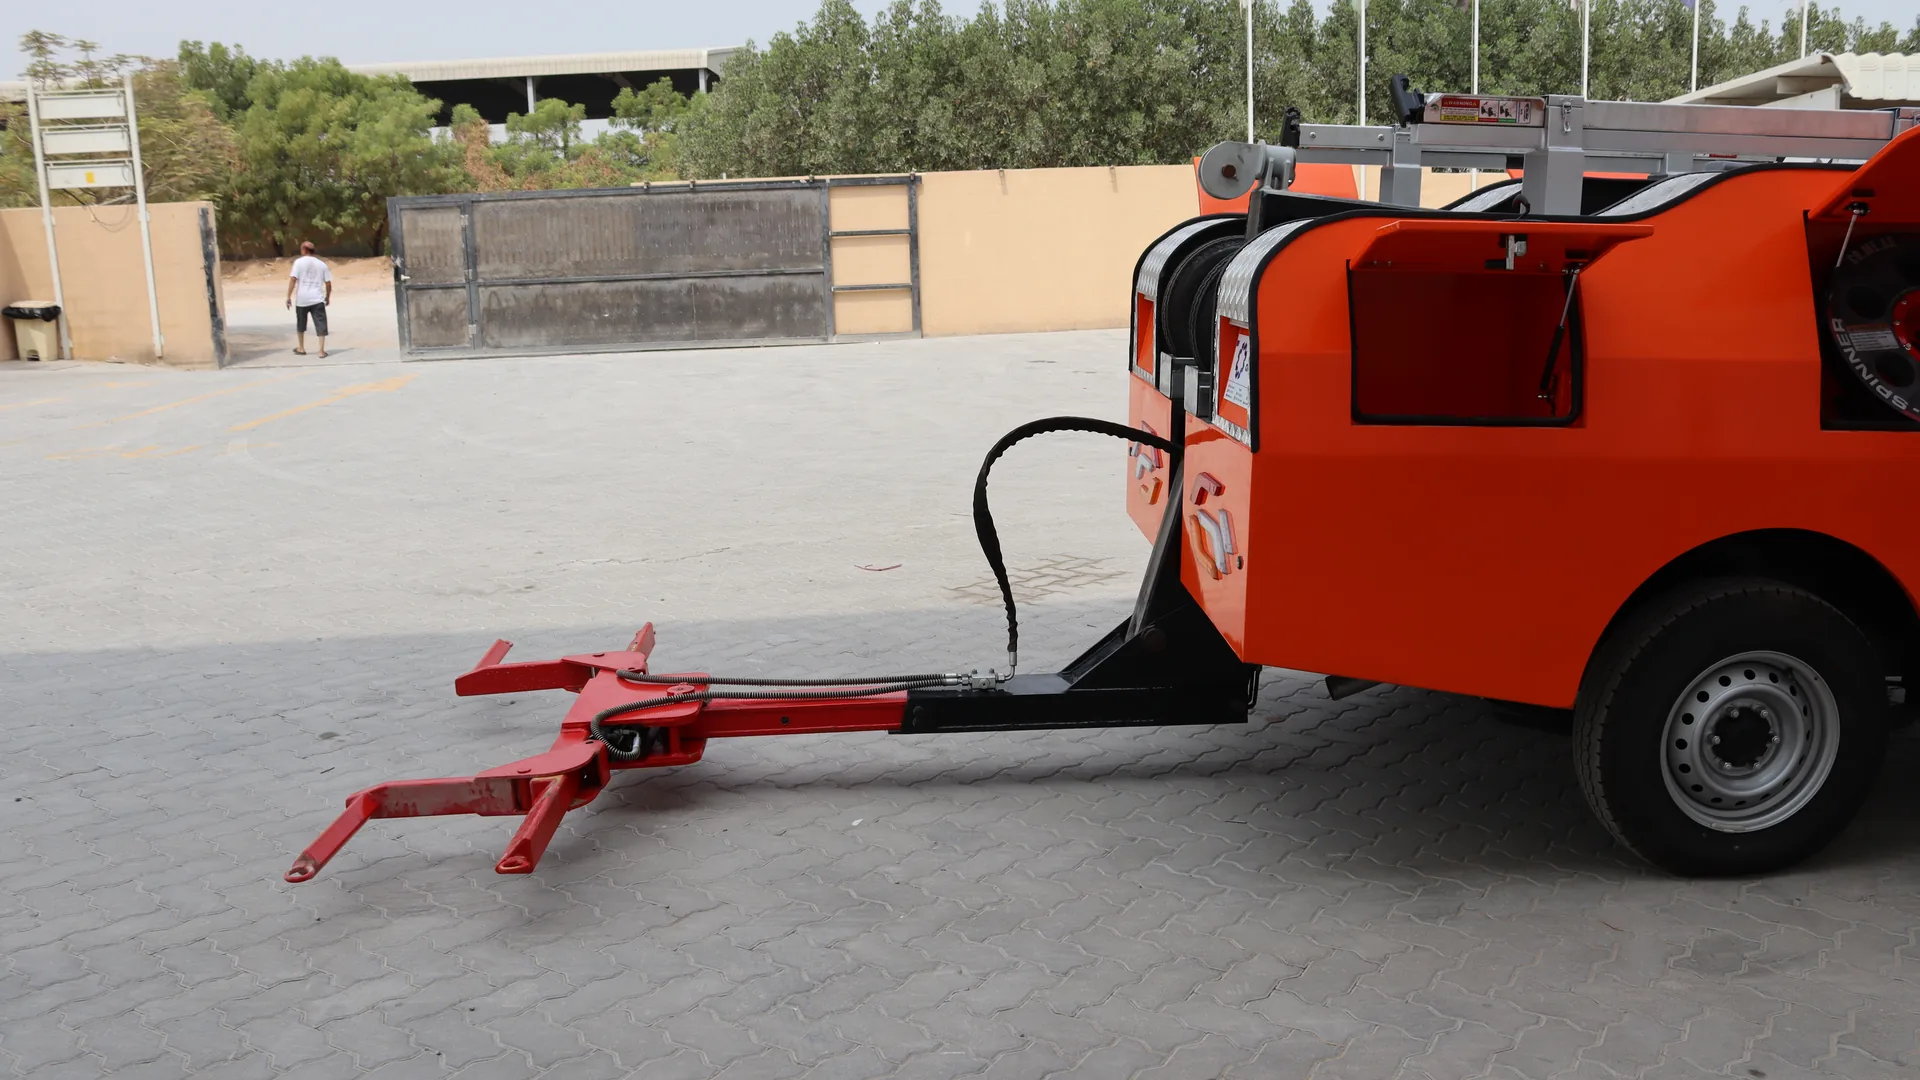
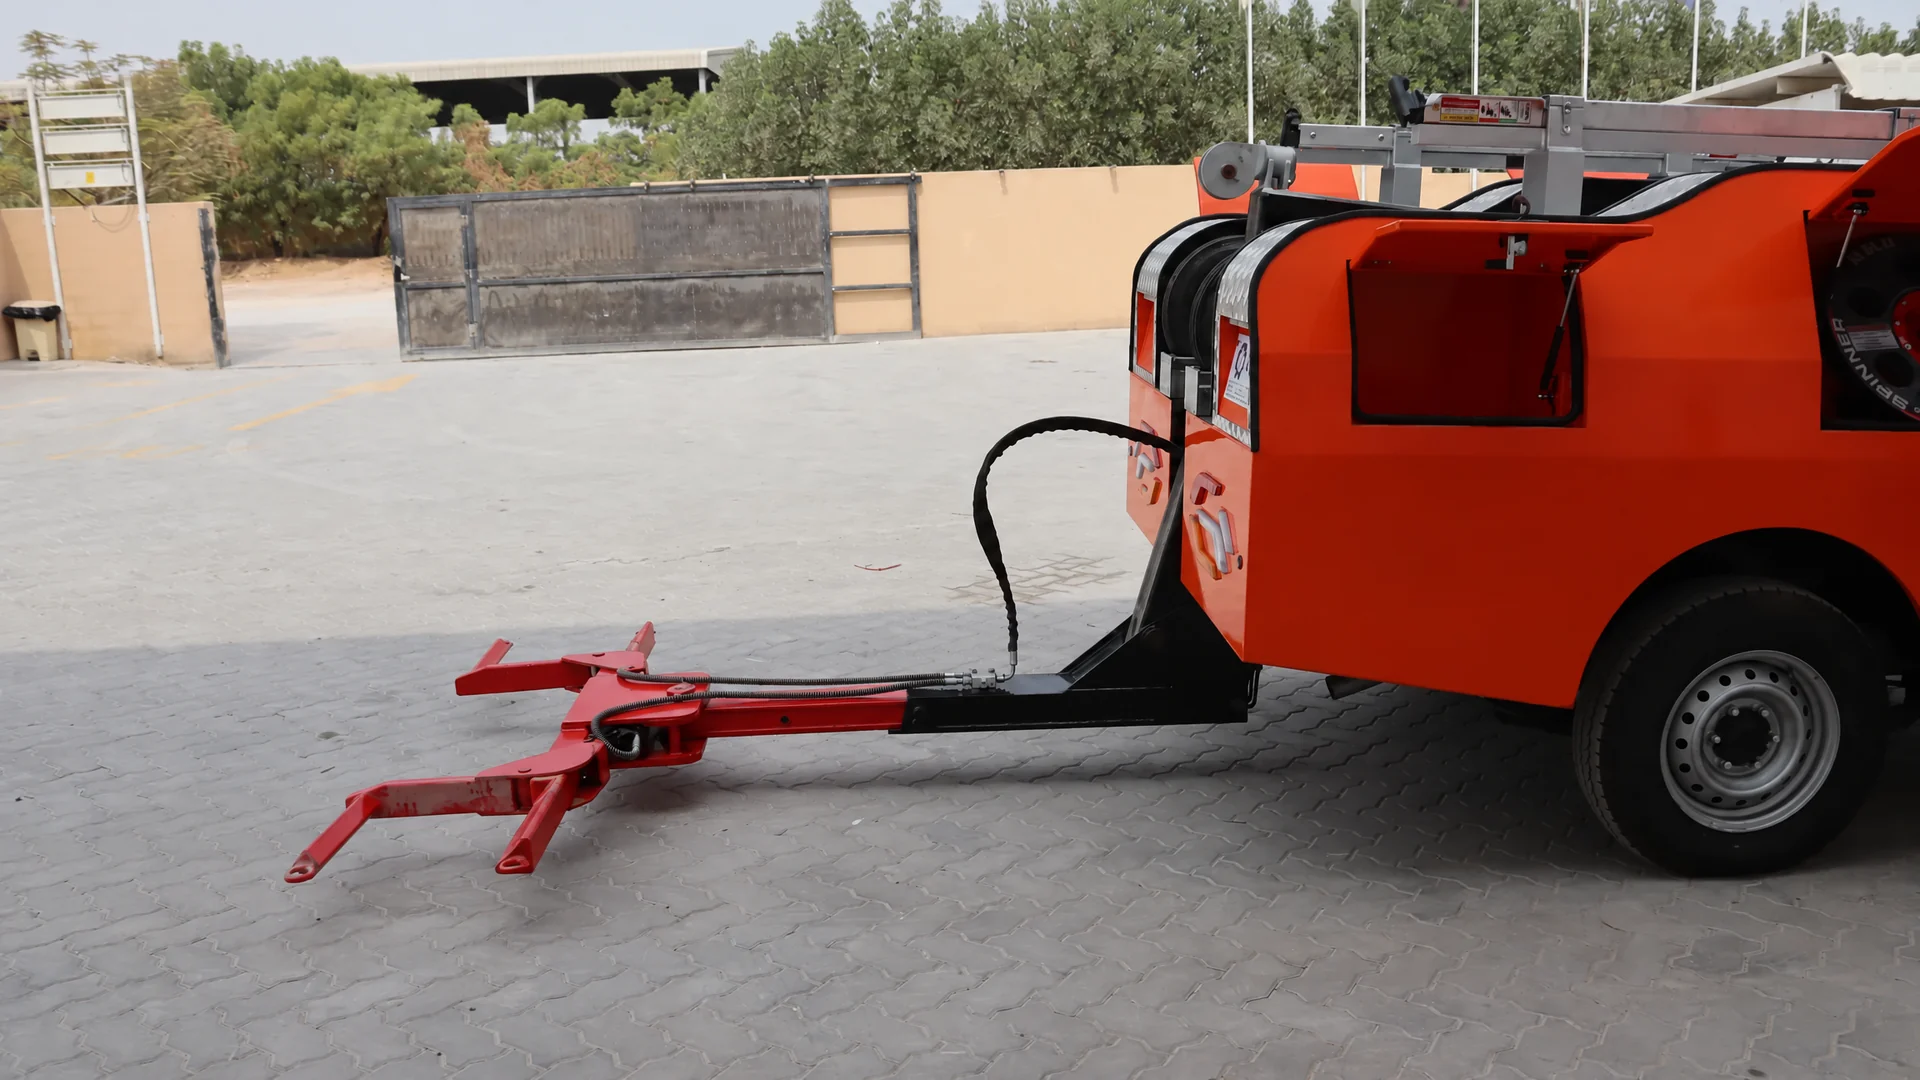
Content updates: bilingual tagline, photo edits, 'Metals Engineering' branding
- Home hero intro: the language word now alternates Latin <-> Arabic with a 3D
  flip (MutationObserver-protected against the template runtime resetting it).
- AQUILA image: removed the person standing by the gate (OpenArt edit).
- Mobile Workshops 'van at facility' image: removed the white truck behind the
  yellow van (OpenArt edit).
- Header brand tag changed from 'Mechanical' to 'Metals Engineering' on every
  page (home, AQUILA, Mobile Workshops, Hydrolift), desktop + mobile menus;
  tightened tag letter-spacing and made the mobile header consistent (logo +
  tag + hamburger) so the longer text fits without colliding with the CTA.

diff --git a/index.html b/index.html
@@ -61,7 +61,7 @@
 <a href="#top" style="display:flex;align-items:center;gap:16px">
 <img src="assets/al-furat-logo.png" alt="al furat" style="height:34px;width:auto;display:block;filter:brightness(0) invert(1)">
 <span style="width:1px;height:26px;background:rgba(242,241,238,.22)"></span>
-<span style="font:600 11px/1 'JetBrains Mono',ui-monospace,monospace;letter-spacing:.26em;color:rgba(242,241,238,.62)">MECHANICAL</span>
+<span style="font:600 11px/1 'JetBrains Mono',ui-monospace,monospace;letter-spacing:.13em;color:rgba(242,241,238,.62)">METALS ENGINEERING</span>
 </a>
 <div data-navlinks role="navigation" aria-label="Primary" style="display:flex;align-items:center;gap:38px">
 <a href="/vehicle-recovery/aquila-100-rear-fork-wrecker/" style="font:500 11px/1 'JetBrains Mono',ui-monospace,monospace;letter-spacing:.18em;color:rgba(242,241,238,.72)">AQUILA</a>
@@ -112,7 +112,7 @@
 </div>
 <div data-introgrid style="display:grid;grid-template-columns:1.15fr .85fr;gap:96px;align-items:start">
 <div>
-<h2 style="margin:0;font:800 58px/1.06 Archivo,sans-serif;letter-spacing:-.028em;text-wrap:pretty;color:#0a0b0d;perspective:900px"><span data-spinword style="display:inline-block;animation:aqspinword 7s cubic-bezier(.62,.03,.32,1) 0.00s infinite">Aquila</span> <span data-spinword style="display:inline-block;animation:aqspinword 7s cubic-bezier(.62,.03,.32,1) 0.12s infinite">means</span> <span data-spinword style="display:inline-block;font-style:italic;font-weight:700;animation:aqspinword 7s cubic-bezier(.62,.03,.32,1) 0.24s infinite">eagle</span> <span data-spinword style="display:inline-block;animation:aqspinword 7s cubic-bezier(.62,.03,.32,1) 0.36s infinite">in</span> <span data-spinword style="display:inline-block;animation:aqspinword 7s cubic-bezier(.62,.03,.32,1) 0.48s infinite">Latin</span> <span data-spinword style="display:inline-block;animation:aqspinword 7s cubic-bezier(.62,.03,.32,1) 0.60s infinite">—</span> <span data-spinword style="display:inline-block;animation:aqspinword 7s cubic-bezier(.62,.03,.32,1) 0.72s infinite">strength,</span> <span data-spinword style="display:inline-block;animation:aqspinword 7s cubic-bezier(.62,.03,.32,1) 0.84s infinite">precision</span> <span data-spinword style="display:inline-block;animation:aqspinword 7s cubic-bezier(.62,.03,.32,1) 0.96s infinite">and</span> <span data-spinword style="display:inline-block;animation:aqspinword 7s cubic-bezier(.62,.03,.32,1) 1.08s infinite">reliability.</span></h2>
+<h2 style="margin:0;font:800 58px/1.06 Archivo,sans-serif;letter-spacing:-.028em;text-wrap:pretty;color:#0a0b0d;perspective:900px"><span data-spinword style="display:inline-block;animation:aqspinword 7s cubic-bezier(.62,.03,.32,1) 0.00s infinite">Aquila</span> <span data-spinword style="display:inline-block;animation:aqspinword 7s cubic-bezier(.62,.03,.32,1) 0.12s infinite">means</span> <span data-spinword style="display:inline-block;font-style:italic;font-weight:700;animation:aqspinword 7s cubic-bezier(.62,.03,.32,1) 0.24s infinite">eagle</span> <span data-spinword style="display:inline-block;animation:aqspinword 7s cubic-bezier(.62,.03,.32,1) 0.36s infinite">in</span> <span id="aqLangWord" data-spinword style="display:inline-block;will-change:transform">Latin</span> <span data-spinword style="display:inline-block;animation:aqspinword 7s cubic-bezier(.62,.03,.32,1) 0.60s infinite">—</span> <span data-spinword style="display:inline-block;animation:aqspinword 7s cubic-bezier(.62,.03,.32,1) 0.72s infinite">strength,</span> <span data-spinword style="display:inline-block;animation:aqspinword 7s cubic-bezier(.62,.03,.32,1) 0.84s infinite">precision</span> <span data-spinword style="display:inline-block;animation:aqspinword 7s cubic-bezier(.62,.03,.32,1) 0.96s infinite">and</span> <span data-spinword style="display:inline-block;animation:aqspinword 7s cubic-bezier(.62,.03,.32,1) 1.08s infinite">reliability.</span></h2>
 <p style="margin:34px 0 0;max-width:600px;font:400 16.5px/1.72 Archivo,sans-serif;color:rgba(10,11,13,.78)">Al Furat Group has manufactured vehicle bodies in the UAE since 1999. Aquila is its recovery vehicle line: light, medium and heavy duty car carriers engineered to the same standard the eagle is named for — sharp vision, exact execution, no compromise on the day the work is hardest.</p>
 <div style="margin-top:44px;display:flex;align-items:center;gap:16px">
 <img src="assets/al-furat-logo.png" alt="al furat since 1999" style="height:40px;width:auto;display:block">
@@ -1081,7 +1081,7 @@ class Component extends DCLogic {
 <button class="afm-btn-fx" type="button" id="afmBtn" aria-label="Open menu" aria-expanded="false" aria-controls="afmSheet">
 <svg width="26" height="26" viewBox="0 0 24 24" fill="none" stroke="currentColor" stroke-width="1.8"><line x1="3" y1="7" x2="21" y2="7"/><line x1="3" y1="12" x2="21" y2="12"/><line x1="3" y1="17" x2="21" y2="17"/></svg></button>
 <div class="afm-sheet" id="afmSheet" role="dialog" aria-modal="true" aria-label="Menu">
-<div class="afm-top"><span class="afm-bweird">AL FURAT · MECHANICAL</span>
+<div class="afm-top"><span class="afm-bweird">AL FURAT · METALS ENGINEERING</span>
 <button class="afm-btn-fx" type="button" id="afmClose" aria-label="Close menu" style="display:inline-flex;position:static;color:#cfcdc9">
 <svg width="26" height="26" viewBox="0 0 24 24" fill="none" stroke="currentColor" stroke-width="1.8"><line x1="5" y1="5" x2="19" y2="19"/><line x1="19" y1="5" x2="5" y2="19"/></svg></button></div>
 <nav aria-label="Mobile">
@@ -1098,6 +1098,31 @@ function x(){s.classList.remove('on');b.setAttribute('aria-expanded','false');b.
 b.addEventListener('click',o);c.addEventListener('click',x);
 [].slice.call(s.querySelectorAll('a')).forEach(function(a){a.addEventListener('click',x);});
 document.addEventListener('keydown',function(e){if(e.key==='Escape'&&s.classList.contains('on'))x();});})();
+</script>
+<script>
+/* Hero intro heading: alternate the language word between "Latin" and "Arabic"
+   with a 3D flip. Retries until the template runtime has rendered the heading,
+   and a MutationObserver re-applies the current word so that runtime cannot
+   reset it back to the static template value. */
+(function(){
+  var tries=0, words=['Latin','Arabic'], i=0;
+  function boot(){
+    var el=document.getElementById('aqLangWord');
+    if(!el){ if(tries++<120) setTimeout(boot,100); return; }
+    var mo=new MutationObserver(function(){ if(el.textContent!==words[i]) el.textContent=words[i]; });
+    try{ mo.observe(el,{childList:true,characterData:true,subtree:true}); }catch(e){}
+    el.style.display='inline-block';
+    el.style.transformOrigin='50% 50%';
+    setInterval(function(){
+      var reduce=window.matchMedia('(prefers-reduced-motion: reduce)').matches;
+      if(reduce){ i=(i+1)%words.length; el.textContent=words[i]; return; } // alternate, no flip
+      el.style.transition='transform .55s cubic-bezier(.62,.03,.32,1)';
+      el.style.transform='rotateX(90deg)';
+      setTimeout(function(){ i=(i+1)%words.length; el.textContent=words[i]; el.style.transform='rotateX(0deg)'; }, 300);
+    }, 4200);
+  }
+  if(document.readyState==='loading') document.addEventListener('DOMContentLoaded', boot); else boot();
+})();
 </script>
 </body>
 </html>

diff --git a/customized-trucks/index.html b/customized-trucks/index.html
@@ -54,13 +54,13 @@ p{margin:16px 0 0;max-width:68ch}
 .brand{display:flex;align-items:center;gap:14px;text-decoration:none}
 .brand img{height:30px;width:auto;filter:brightness(0) invert(1)}
 .brand .div{width:1px;height:22px;background:rgba(242,241,238,.28)}
-.brand .tag{font:500 11px/1 'JetBrains Mono',ui-monospace,monospace;letter-spacing:.22em;color:#cfcdc9}
+.brand .tag{font:500 11px/1 'JetBrains Mono',ui-monospace,monospace;letter-spacing:.13em;color:#cfcdc9}
 .navlinks{display:flex;align-items:center;gap:30px}
 .navlinks a{font:500 11.5px/1 'JetBrains Mono',ui-monospace,monospace;letter-spacing:.18em;color:#cfcdc9;text-decoration:none;display:inline-flex;align-items:center;min-height:24px;padding:6px 0}
 .navlinks a:hover{color:#fff}
 .navlinks a.cta{background:var(--yellow);color:var(--ink);padding:13px 20px;font-weight:600}
 .navlinks a.cta:hover{background:var(--yellow-hi);color:var(--ink)}
-@media(max-width:900px){.navlinks a:not(.cta){display:none}.navlinks{gap:0}}
+@media(max-width:900px){.navlinks a{display:none}.navlinks{gap:0}}
 /* breadcrumb */
 .crumb{background:#141517;border-bottom:1px solid rgba(242,241,238,.08)}
 .crumb ol{list-style:none;display:flex;flex-wrap:wrap;gap:10px;margin:0;padding:12px clamp(20px,4vw,56px);max-width:1280px;margin:0 auto;
@@ -278,7 +278,7 @@ ul.ticks li::before{content:"";position:absolute;left:0;top:9px;width:9px;height
     <a class="brand" href="/">
       <img src="/assets/al-furat-logo.png" alt="Al Furat" width="79" height="30">
       <span class="div"></span>
-      <span class="tag">MECHANICAL</span>
+      <span class="tag">METALS ENGINEERING</span>
     </a>
     <nav class="navlinks" aria-label="Primary">
       <a href="/#range">RANGE</a>
@@ -604,7 +604,7 @@ ul.ticks li::before{content:"";position:absolute;left:0;top:9px;width:9px;height
 .afm-sheet .afm-lab{font:500 10.5px/1 'JetBrains Mono',ui-monospace,monospace;letter-spacing:.2em;text-transform:uppercase;color:#7c7a77;padding:16px 4px 6px}
 .afm-sheet a.afm-cta{margin-top:18px;background:#ffd200;color:#0a0b0d;text-align:center;padding:16px;font:700 12px/1 'JetBrains Mono',ui-monospace,monospace;letter-spacing:.16em;text-transform:uppercase;text-decoration:none}
 </style>
-<div class="afm-sheet" id="afmSheet" role="dialog" aria-modal="true" aria-label="Menu"><div class="afm-top"><span class="afm-bweird">AL FURAT · MECHANICAL</span><button class="afm-btn" type="button" id="afmClose" aria-label="Close menu" style="display:inline-flex;color:#cfcdc9"><svg width="26" height="26" viewBox="0 0 24 24" fill="none" stroke="currentColor" stroke-width="1.8"><line x1="5" y1="5" x2="19" y2="19"/><line x1="19" y1="5" x2="5" y2="19"/></svg></button></div><nav aria-label="Mobile"><a class="afm-l" href="/#range">Range</a><a class="afm-l" href="/vehicle-recovery/aquila-100-rear-fork-wrecker/">AQUILA</a><span class="afm-lab">Specialized vehicles</span><a class="afm-sub" href="/customized-trucks/">Mobile Workshops</a><a class="afm-sub" href="/specialised-vehicles/hydrolift/">Hydrolift</a><a class="afm-cta" href="#enquiry">Discuss Your Truck</a></nav></div>
+<div class="afm-sheet" id="afmSheet" role="dialog" aria-modal="true" aria-label="Menu"><div class="afm-top"><span class="afm-bweird">AL FURAT · METALS ENGINEERING</span><button class="afm-btn" type="button" id="afmClose" aria-label="Close menu" style="display:inline-flex;color:#cfcdc9"><svg width="26" height="26" viewBox="0 0 24 24" fill="none" stroke="currentColor" stroke-width="1.8"><line x1="5" y1="5" x2="19" y2="19"/><line x1="19" y1="5" x2="5" y2="19"/></svg></button></div><nav aria-label="Mobile"><a class="afm-l" href="/#range">Range</a><a class="afm-l" href="/vehicle-recovery/aquila-100-rear-fork-wrecker/">AQUILA</a><span class="afm-lab">Specialized vehicles</span><a class="afm-sub" href="/customized-trucks/">Mobile Workshops</a><a class="afm-sub" href="/specialised-vehicles/hydrolift/">Hydrolift</a><a class="afm-cta" href="#enquiry">Discuss Your Truck</a></nav></div>
 <script>
 (function(){var b=document.getElementById('afmBtn'),s=document.getElementById('afmSheet'),c=document.getElementById('afmClose');
 if(!b||!s)return;function o(){s.classList.add('on');b.setAttribute('aria-expanded','true');document.body.style.overflow='hidden';}

diff --git a/vehicle-recovery/aquila-100-rear-fork-wrecker/index.html b/vehicle-recovery/aquila-100-rear-fork-wrecker/index.html
@@ -261,8 +261,7 @@ header.nav{position:fixed;top:0;left:0;right:0;z-index:50;background:rgba(10,11,
   .split,.spec-grid,.qgrid{grid-template-columns:1fr}
   .split.rev .m{order:0}
   .navlinks{gap:0}
-  .navlinks a:not(.cta){display:none}
-  .brand .tag{display:none}
+  .navlinks a{display:none}
 }
 @media (max-width:560px){
   .steps,.proc,.field-row{grid-template-columns:1fr}
@@ -293,7 +292,7 @@ header.nav{position:fixed;top:0;left:0;right:0;z-index:50;background:rgba(10,11,
     <a class="brand" href="/" aria-label="Al Furat — home">
       <img src="/assets/al-furat-logo.png" alt="Al Furat">
       <span class="div"></span>
-      <span class="tag">MECHANICAL</span>
+      <span class="tag">METALS ENGINEERING</span>
     </a>
     <nav class="navlinks" aria-label="Primary">
       <a href="#range">RANGE</a>
@@ -916,7 +915,7 @@ header.nav{position:fixed;top:0;left:0;right:0;z-index:50;background:rgba(10,11,
 .afm-sheet .afm-lab{font:500 10.5px/1 'JetBrains Mono',ui-monospace,monospace;letter-spacing:.2em;text-transform:uppercase;color:#7c7a77;padding:16px 4px 6px}
 .afm-sheet a.afm-cta{margin-top:18px;background:#ffd200;color:#0a0b0d;text-align:center;padding:16px;font:700 12px/1 'JetBrains Mono',ui-monospace,monospace;letter-spacing:.16em;text-transform:uppercase;text-decoration:none}
 </style>
-<div class="afm-sheet" id="afmSheet" role="dialog" aria-modal="true" aria-label="Menu"><div class="afm-top"><span class="afm-bweird">AL FURAT · MECHANICAL</span><button class="afm-btn" type="button" id="afmClose" aria-label="Close menu" style="display:inline-flex;color:#cfcdc9"><svg width="26" height="26" viewBox="0 0 24 24" fill="none" stroke="currentColor" stroke-width="1.8"><line x1="5" y1="5" x2="19" y2="19"/><line x1="19" y1="5" x2="5" y2="19"/></svg></button></div><nav aria-label="Mobile"><a class="afm-l" href="#range">Range</a><a class="afm-l" href="/vehicle-recovery/aquila-100-rear-fork-wrecker/">AQUILA</a><span class="afm-lab">Specialized vehicles</span><a class="afm-sub" href="/customized-trucks/">Mobile Workshops</a><a class="afm-sub" href="/specialised-vehicles/hydrolift/">Hydrolift</a><a class="afm-cta" href="#quote">Contact us</a></nav></div>
+<div class="afm-sheet" id="afmSheet" role="dialog" aria-modal="true" aria-label="Menu"><div class="afm-top"><span class="afm-bweird">AL FURAT · METALS ENGINEERING</span><button class="afm-btn" type="button" id="afmClose" aria-label="Close menu" style="display:inline-flex;color:#cfcdc9"><svg width="26" height="26" viewBox="0 0 24 24" fill="none" stroke="currentColor" stroke-width="1.8"><line x1="5" y1="5" x2="19" y2="19"/><line x1="19" y1="5" x2="5" y2="19"/></svg></button></div><nav aria-label="Mobile"><a class="afm-l" href="#range">Range</a><a class="afm-l" href="/vehicle-recovery/aquila-100-rear-fork-wrecker/">AQUILA</a><span class="afm-lab">Specialized vehicles</span><a class="afm-sub" href="/customized-trucks/">Mobile Workshops</a><a class="afm-sub" href="/specialised-vehicles/hydrolift/">Hydrolift</a><a class="afm-cta" href="#quote">Contact us</a></nav></div>
 <script>
 (function(){var b=document.getElementById('afmBtn'),s=document.getElementById('afmSheet'),c=document.getElementById('afmClose');
 if(!b||!s)return;function o(){s.classList.add('on');b.setAttribute('aria-expanded','true');document.body.style.overflow='hidden';}

diff --git a/specialised-vehicles/hydrolift/index.html b/specialised-vehicles/hydrolift/index.html
@@ -54,7 +54,7 @@ p{margin:16px 0 0;max-width:68ch}
 .brand{display:flex;align-items:center;gap:14px;text-decoration:none}
 .brand img{height:30px;width:auto;filter:brightness(0) invert(1)}
 .brand .div{width:1px;height:22px;background:rgba(242,241,238,.28)}
-.brand .tag{font:500 11px/1 'JetBrains Mono',ui-monospace,monospace;letter-spacing:.22em;color:#cfcdc9}
+.brand .tag{font:500 11px/1 'JetBrains Mono',ui-monospace,monospace;letter-spacing:.13em;color:#cfcdc9}
 .navlinks{display:flex;align-items:center;gap:30px}
 .navlinks a{font:500 11.5px/1 'JetBrains Mono',ui-monospace,monospace;letter-spacing:.18em;color:#cfcdc9;text-decoration:none;display:inline-flex;align-items:center;min-height:24px;padding:6px 0}
 .navlinks a:hover{color:#fff}
@@ -311,7 +311,7 @@ table.cmp tbody tr:hover td,table.cmp tbody tr:hover th{background:rgba(255,210,
     <a class="brand" href="/">
       <img src="/assets/al-furat-logo.png" alt="Al Furat" width="79" height="30">
       <span class="div"></span>
-      <span class="tag">MECHANICAL</span>
+      <span class="tag">METALS ENGINEERING</span>
     </a>
     <nav class="navlinks" aria-label="Primary">
       <a href="/#range">RANGE</a>
@@ -327,7 +327,7 @@ table.cmp tbody tr:hover td,table.cmp tbody tr:hover th{background:rgba(255,210,
 
 <div class="msheet" id="msheet" role="dialog" aria-modal="true" aria-label="Menu">
   <div class="mtop">
-    <a class="brand" href="/"><img src="/assets/al-furat-logo.png" alt="Al Furat" width="79" height="30"><span class="div"></span><span class="tag">MECHANICAL</span></a>
+    <a class="brand" href="/"><img src="/assets/al-furat-logo.png" alt="Al Furat" width="79" height="30"><span class="div"></span><span class="tag">METALS ENGINEERING</span></a>
     <button class="menu-btn" type="button" id="menuClose" aria-label="Close menu" style="display:inline-flex">
       <svg width="26" height="26" viewBox="0 0 24 24" fill="none" stroke="currentColor" stroke-width="1.8"><line x1="5" y1="5" x2="19" y2="19"/><line x1="19" y1="5" x2="5" y2="19"/></svg>
     </button>
